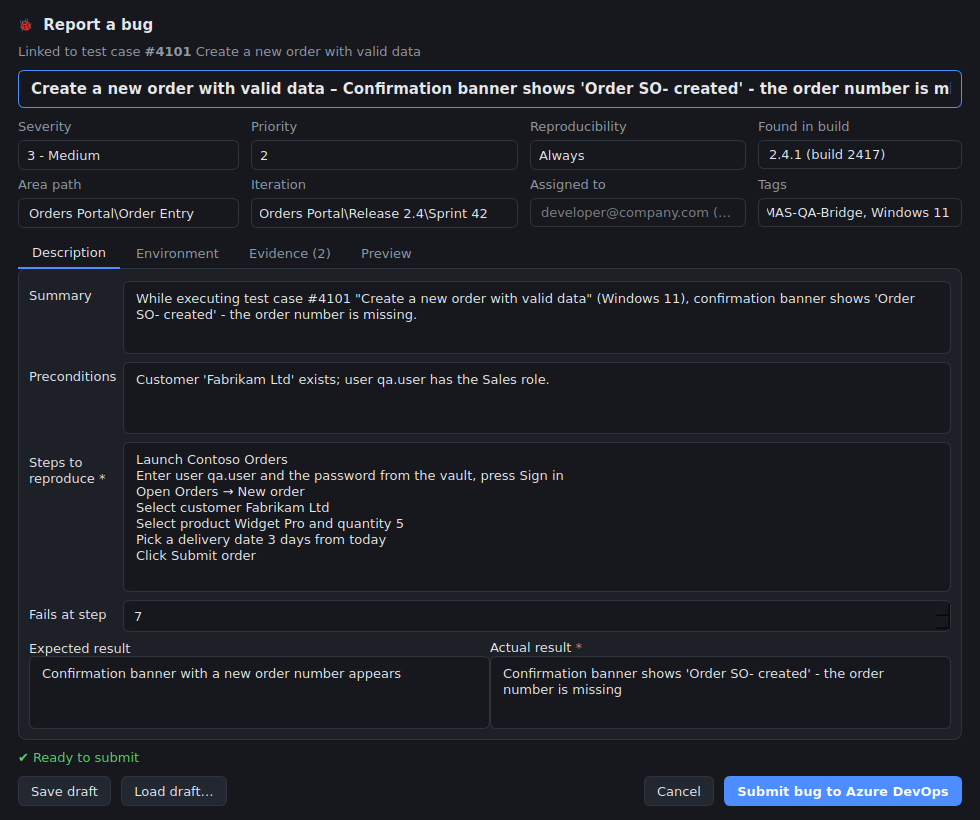
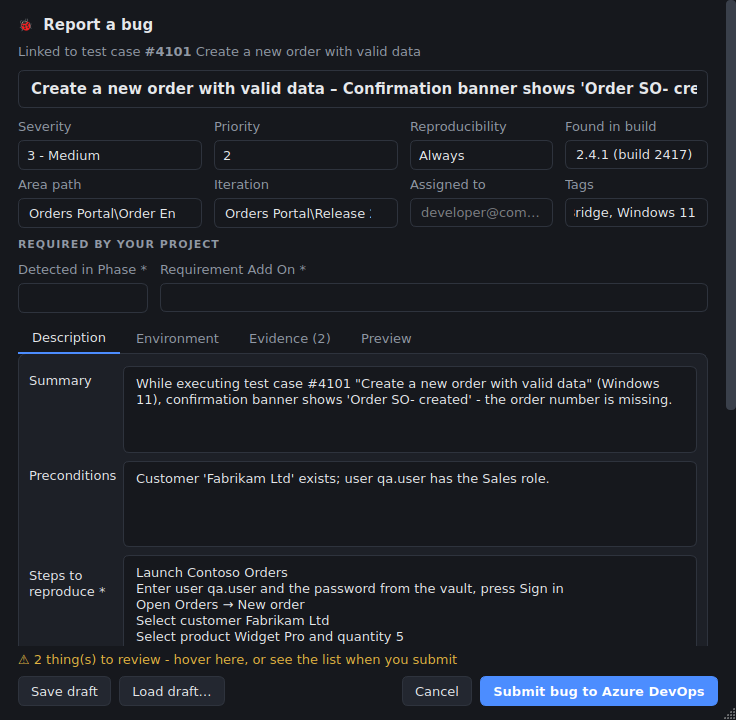
Bug form fits small screens: scrollable form, pinned buttons, resizable
On a laptop screen the form was taller than the display, hiding the Submit
button, and could not be resized.
- size capped to the screen's available area, moved fully on screen
- form scrolls (vertically and, if needed, horizontally); validation message
  and buttons stay pinned at the bottom; size grip, maximize and minimize
- tab pages are never squeezed (rows no longer overlap); long area paths no
  longer widen the form; warnings collapse to a single line (full list on hover
  and in the submit prompt)

Claude-Session: https://claude.ai/code/session_01LtNcQRqtBWCJtSSuSsnYK1

diff --git a/bug_dialog.py b/bug_dialog.py
@@ -12,10 +12,12 @@ from pathlib import Path
 from typing import Any, Optional
 
 from PyQt6.QtCore import Qt, QUrl, pyqtSignal
-from PyQt6.QtGui import QPixmap
+from PyQt6.QtGui import QPixmap, QShowEvent
 from PyQt6.QtWidgets import (
+    QApplication,
     QComboBox,
     QDialog,
+    QFrame,
     QFileDialog,
     QFormLayout,
     QGridLayout,
@@ -28,6 +30,7 @@ from PyQt6.QtWidgets import (
     QMessageBox,
     QPlainTextEdit,
     QPushButton,
+    QScrollArea,
     QSpinBox,
     QTableWidget,
     QTableWidgetItem,
@@ -61,15 +64,37 @@ class BugDialog(QDialog):
         super().__init__(parent)
         self.setWindowTitle("Report a bug")
         self.setObjectName("bugDialog")
-        self.resize(980, 820)
+        # Fit the screen the tester actually has (laptops at 125-150% scaling are short), stay resizable.
+        self.setSizeGripEnabled(True)
+        self.setWindowFlag(Qt.WindowType.WindowMaximizeButtonHint, True)
+        self.setWindowFlag(Qt.WindowType.WindowMinimizeButtonHint, True)
+        self.setMinimumSize(560, 420)
+        self._fit_to_screen()
         self.report = report
         self.meta = meta or {}
         self.drafts_dir = drafts_dir
         self.created_bug: Optional[dict[str, Any]] = None
 
-        root = QVBoxLayout(self)
-        root.setContentsMargins(18, 16, 18, 14)
+        # Layout: [ scrollable form ............ ]  <- grows / scrolls on short screens
+        #         [ validation message + buttons ]  <- always visible
+        outer = QVBoxLayout(self)
+        outer.setContentsMargins(0, 0, 0, 0)
+        outer.setSpacing(0)
+        self._scroll = QScrollArea()
+        self._scroll.setWidgetResizable(True)
+        self._scroll.setFrameShape(QFrame.Shape.NoFrame)
+        self._scroll.setHorizontalScrollBarPolicy(Qt.ScrollBarPolicy.ScrollBarAsNeeded)
+        form_page = QWidget()
+        root = QVBoxLayout(form_page)
+        root.setContentsMargins(18, 16, 18, 8)
         root.setSpacing(10)
+        self._scroll.setWidget(form_page)
+        outer.addWidget(self._scroll, stretch=1)
+        footer = QWidget()
+        footer_layout = QVBoxLayout(footer)
+        footer_layout.setContentsMargins(18, 6, 18, 14)
+        footer_layout.setSpacing(8)
+        outer.addWidget(footer)
 
         # ---- heading
         heading = QLabel("🐞  Report a bug")
@@ -96,14 +121,20 @@ class BugDialog(QDialog):
         grid.setHorizontalSpacing(12)
         grid.setVerticalSpacing(6)
         self.severity = QComboBox()
+        self.severity.setSizeAdjustPolicy(QComboBox.SizeAdjustPolicy.AdjustToMinimumContentsLengthWithIcon)
+        self.severity.setMinimumContentsLength(8)
         self.severity.addItems(self.meta.get("severities") or SEVERITIES)
         self.severity.setCurrentText(report.severity)
         self.severity.setToolTip("Impact on the user: 1 crash/data loss · 2 major feature broken · 3 workaround exists · 4 cosmetic")
         self.priority = QComboBox()
+        self.priority.setSizeAdjustPolicy(QComboBox.SizeAdjustPolicy.AdjustToMinimumContentsLengthWithIcon)
+        self.priority.setMinimumContentsLength(8)
         self.priority.addItems([str(p) for p in PRIORITIES])
         self.priority.setCurrentText(str(report.priority))
         self.priority.setToolTip("How soon it should be fixed (1 = immediately)")
         self.repro = QComboBox()
+        self.repro.setSizeAdjustPolicy(QComboBox.SizeAdjustPolicy.AdjustToMinimumContentsLengthWithIcon)
+        self.repro.setMinimumContentsLength(8)
         self.repro.addItems(REPRODUCIBILITY)
         self.repro.setCurrentText(report.reproducibility)
         self.found_in = QLineEdit(report.found_in)
@@ -166,6 +197,8 @@ class BugDialog(QDialog):
         self.preview.setOpenExternalLinks(True)
         self.tabs.addTab(self.preview, "Preview")
         self.tabs.currentChanged.connect(self._on_tab_changed)
+        # Never squeeze the tab pages (rows would overlap): the whole form scrolls instead.
+        self.tabs.setMinimumHeight(self.tabs.sizeHint().height())
         root.addWidget(self.tabs, stretch=1)
 
         # ---- footer
@@ -174,7 +207,7 @@ class BugDialog(QDialog):
         self.message.setTextFormat(Qt.TextFormat.RichText)
         self.message.setTextInteractionFlags(Qt.TextInteractionFlag.TextBrowserInteraction)
         self.message.setOpenExternalLinks(True)
-        root.addWidget(self.message)
+        footer_layout.addWidget(self.message)
 
         buttons = QHBoxLayout()
         self.save_btn = QPushButton("Save draft")
@@ -191,7 +224,7 @@ class BugDialog(QDialog):
         buttons.addStretch()
         buttons.addWidget(self.cancel_btn)
         buttons.addWidget(self.submit_btn)
-        root.addLayout(buttons)
+        footer_layout.addLayout(buttons)
 
         self._fill_details(report)
         self._update_validation()
@@ -204,13 +237,33 @@ class BugDialog(QDialog):
                 self._update_validation
             )
 
+    def _fit_to_screen(self) -> None:
+        screen = (self.parent().screen() if self.parent() is not None else None) or QApplication.primaryScreen()
+        avail = screen.availableGeometry()
+        self.resize(min(980, int(avail.width() * 0.92)), min(820, int(avail.height() * 0.90)))
+
+    def showEvent(self, event: QShowEvent) -> None:
+        super().showEvent(event)
+        # Keep the whole window (title bar + buttons) on screen.
+        screen = self.screen() or QApplication.primaryScreen()
+        avail = screen.availableGeometry()
+        frame = self.frameGeometry()
+        x = min(max(frame.x(), avail.left()), max(avail.left(), avail.right() - frame.width() + 1))
+        y = min(max(frame.y(), avail.top()), max(avail.top(), avail.bottom() - frame.height() + 1))
+        if (x, y) != (frame.x(), frame.y()):
+            self.move(x, y)
+
     # ------------------------------------------------------------ building
     @staticmethod
     def _path_combo(paths: Optional[list[str]], current: str) -> QComboBox:
         combo = QComboBox()
+        combo.setSizeAdjustPolicy(QComboBox.SizeAdjustPolicy.AdjustToMinimumContentsLengthWithIcon)
+        combo.setMinimumContentsLength(14)  # long area/iteration paths must not widen the form
         combo.setEditable(True)
         combo.addItems(paths or [])
         combo.setCurrentText(current or (paths[0] if paths else ""))
+        if combo.lineEdit() is not None:
+            combo.lineEdit().setCursorPosition(0)  # show the start of long paths
         combo.setToolTip("Leave the project root to let the team triage it")
         return combo
 
@@ -219,9 +272,11 @@ class BugDialog(QDialog):
         form = QFormLayout(page)
         form.setContentsMargins(10, 12, 10, 10)
         form.setVerticalSpacing(8)
-        self.summary_edit = _text_edit("One or two sentences: what is broken and what it affects.", 48)
+        self.summary_edit = _text_edit("One or two sentences: what is broken and what it affects.", 44)
+        self.summary_edit.setMaximumHeight(90)
         self.pre_edit = _text_edit("Data, account, settings or state needed before step 1 (e.g. 'Customer Fabrikam exists').", 44)
-        self.steps_edit = _text_edit("One step per line. Keep them short and concrete.", 150)
+        self.pre_edit.setMaximumHeight(90)
+        self.steps_edit = _text_edit("One step per line. Keep them short and concrete.", 110)
         self.fail_spin = QSpinBox()
         self.fail_spin.setRange(0, 999)
         self.fail_spin.setSpecialValueText("—")
@@ -285,7 +340,7 @@ class BugDialog(QDialog):
         self.thumbnail = QLabel("Select an item to preview")
         self.thumbnail.setObjectName("muted")
         self.thumbnail.setAlignment(Qt.AlignmentFlag.AlignCenter)
-        self.thumbnail.setMinimumWidth(380)
+        self.thumbnail.setMinimumWidth(220)
         layout.addLayout(left, stretch=1)
         layout.addWidget(self.thumbnail, stretch=1)
         return page
@@ -377,7 +432,12 @@ class BugDialog(QDialog):
     def _update_validation(self) -> None:
         errors, warnings = self.collect().validate()
         parts = [f"<span style='color:#ff7b72'>✖ {e}</span>" for e in errors]
-        parts += [f"<span style='color:#e3b341'>⚠ {w}</span>" for w in warnings]
+        if warnings:  # one compact line: full list on hover and again when submitting
+            parts.append(
+                f"<span style='color:#e3b341'>⚠ {len(warnings)} thing(s) to review - hover here, "
+                "or see the list when you submit</span>"
+            )
+        self.message.setToolTip("\n".join("• " + w for w in warnings))
         self.message.setText("<br>".join(parts) if parts else "<span style='color:#56d364'>✔ Ready to submit</span>")
         self.submit_btn.setEnabled(not errors)
 
